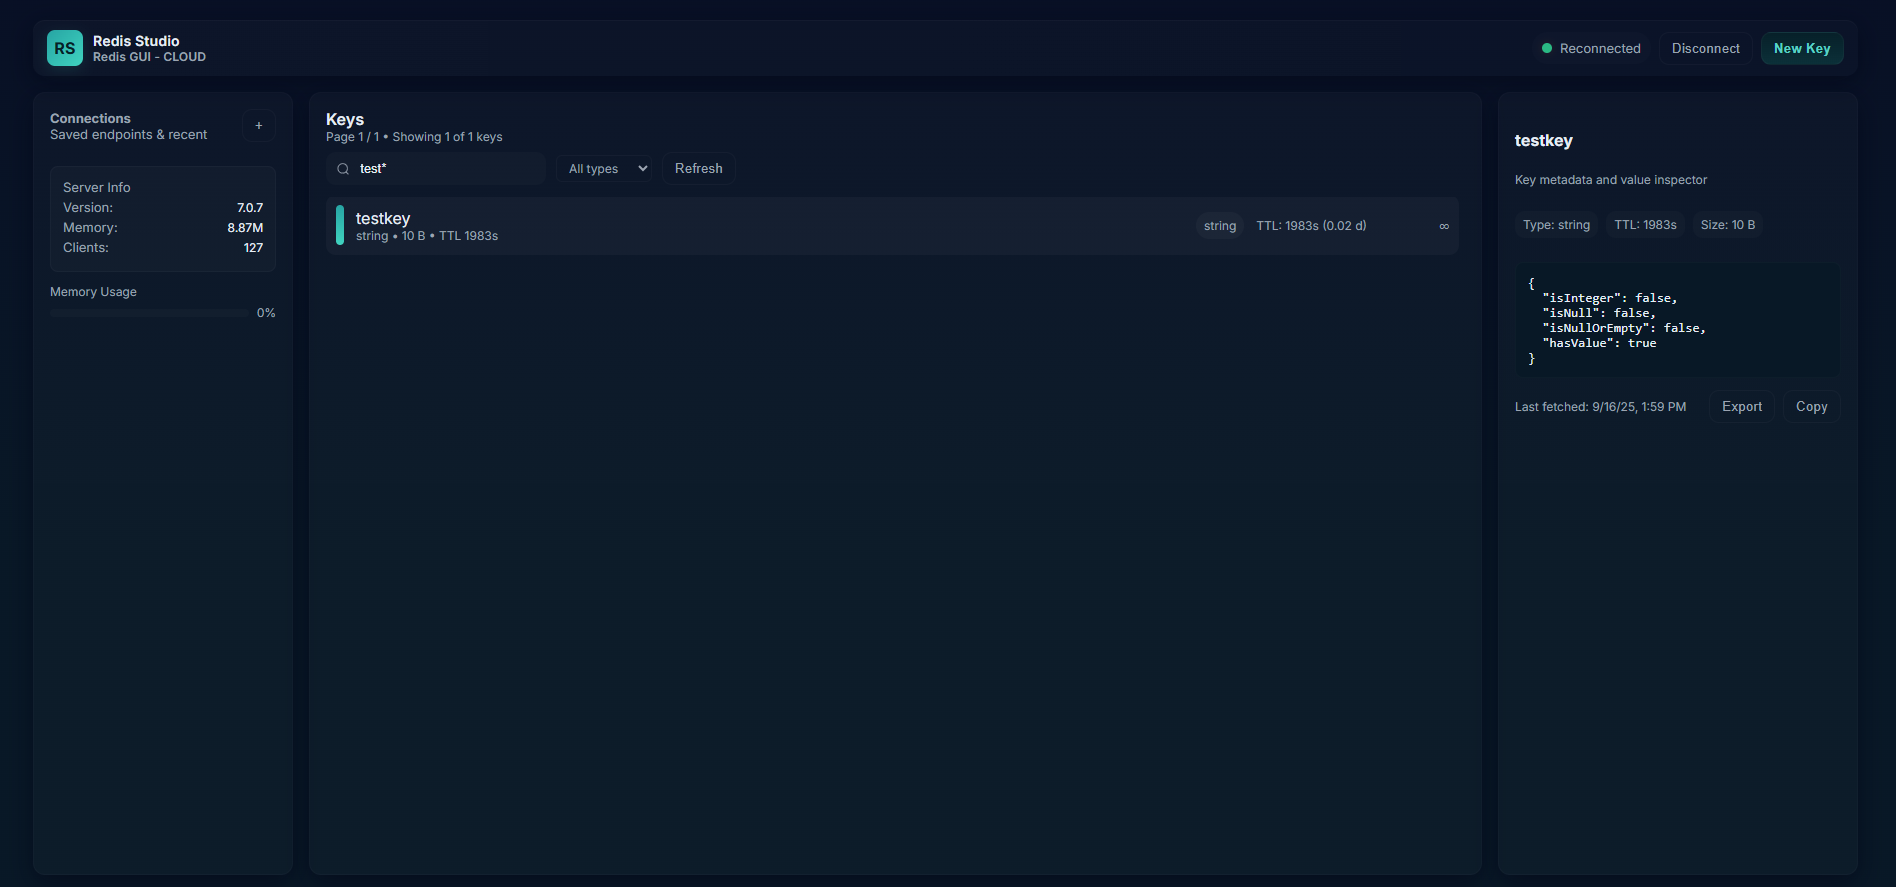
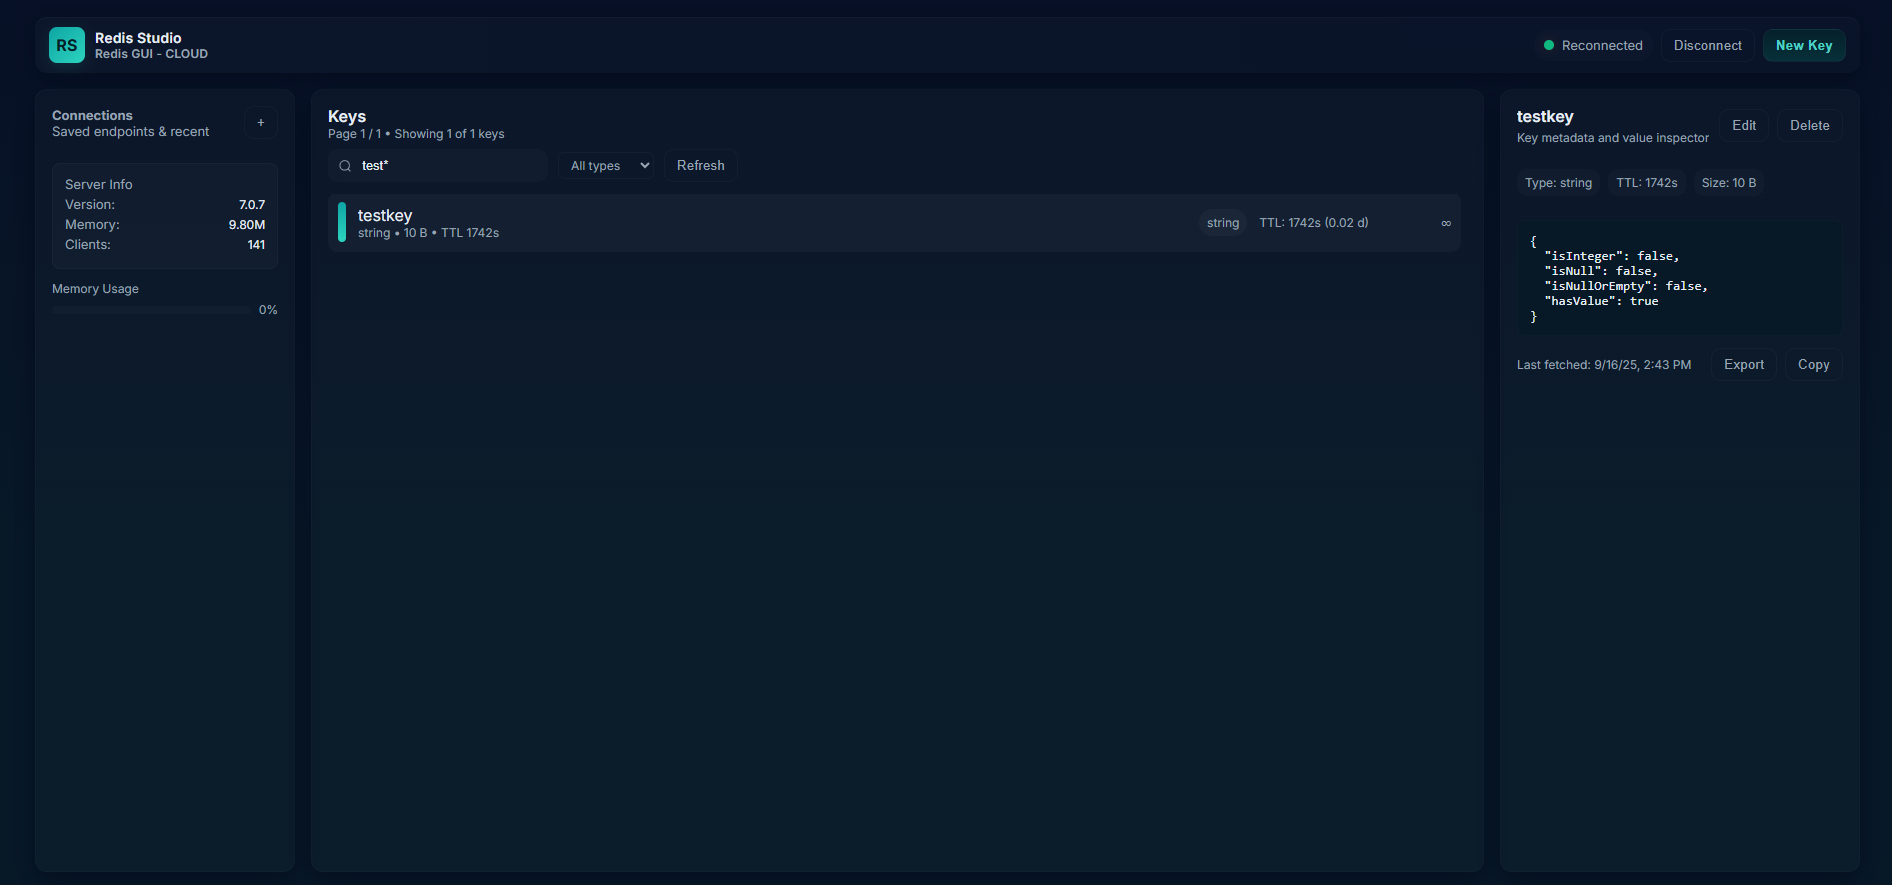
confirmation modal

diff --git a/frontend/src/app/components/key-details/key-details.component.html b/frontend/src/app/components/key-details/key-details.component.html
@@ -1,18 +1,29 @@
 <div class="details-header">
   <div>
-    <h4>{{ selectedKey?.key || ui.details.selectPrompt }}</h4>
-    <div class="small-muted">{{ "Key metadata and value inspector" }}</div>
+    <h4 [title]="selectedKey?.key || ui.details.selectPrompt">
+      {{ selectedKey?.key || ui.details.selectPrompt }}
+    </h4>
+    <div class="small-muted" title="Key metadata and value inspector">
+      {{ "Key metadata and value inspector" }}
+    </div>
   </div>
-  <!-- <div class="actions" *ngIf="selectedKey">
-    <button class="btn ghost" (click)="edit.emit()" [disabled]="!canEdit">Edit</button>
+  <div class="actions" *ngIf="selectedKey">
+    <button class="btn ghost" (click)="edit.emit()" [disabled]="!canEdit">
+      Edit
+    </button>
     <button class="btn ghost" (click)="delete.emit()">Delete</button>
-  </div> -->
+  </div>
 </div>
 
 <div class="meta" *ngIf="selectedKey as sk">
   <div class="tag">Type: {{ sk.type }}</div>
   <div class="tag">TTL: {{ sk.ttl ? sk.ttl + "s" : "—" }}</div>
-  <div class="tag" *ngIf="sk.daysToExpire !== null && sk.daysToExpire !== undefined">Days Left: {{ sk.daysToExpire }}</div>
+  <div
+    class="tag"
+    *ngIf="sk.daysToExpire !== null && sk.daysToExpire !== undefined"
+  >
+    Days Left: {{ sk.daysToExpire }}
+  </div>
   <div class="tag">Size: {{ sk.size }}</div>
 </div>
 
@@ -22,7 +33,14 @@
   </div>
   <div *ngIf="selectedKey && !isLoadingValue && selectedKeyValue">
     <pre>{{ formatValue(selectedKeyValue.value) }}</pre>
-    <div *ngIf="selectedKeyValue.rawString && selectedKeyValue.rawString !== selectedKeyValue.value" class="muted" style="margin-top:6px;font-size:11px;word-break:break-all;">
+    <div
+      *ngIf="
+        selectedKeyValue.rawString &&
+        selectedKeyValue.rawString !== selectedKeyValue.value
+      "
+      class="muted"
+      style="margin-top: 6px; font-size: 11px; word-break: break-all"
+    >
       Raw: {{ selectedKeyValue.rawString }}
     </div>
   </div>

diff --git a/frontend/src/app/components/main-app/main-app.component.ts b/frontend/src/app/components/main-app/main-app.component.ts
@@ -53,6 +53,10 @@ export class MainAppComponent implements OnInit {
 
   memoryUsagePercent = 0;
 
+  // Confirmation modal state
+  confirmDeleteVisible = false;
+  pendingDeleteKey: string | null = null;
+
   constructor(
     public themeService: ThemeService,
     private redisService: RedisService
@@ -222,7 +226,8 @@ export class MainAppComponent implements OnInit {
   }
 
   canEditKey(): boolean {
-    return !!this.selectedKey && ["string"].includes(this.selectedKey.type);
+    // return !!this.selectedKey && ["string"].includes(this.selectedKey.type);
+    return true;
   }
   closeKeyEditor(): void {
     this.keyEditorVisible = false;
@@ -255,15 +260,29 @@ export class MainAppComponent implements OnInit {
 
   deleteSelectedKey(): void {
     if (!this.selectedKey) return;
-    const keyToDelete = this.selectedKey.key;
-    if (!confirm(`Delete key ${keyToDelete}?`)) return;
+    this.pendingDeleteKey = this.selectedKey.key;
+    this.confirmDeleteVisible = true;
+  }
+
+  onConfirmDelete(): void {
+    if (!this.pendingDeleteKey) return;
+    const keyToDelete = this.pendingDeleteKey;
     this.redisService.deleteKey(keyToDelete).subscribe((success) => {
       if (success) {
-        this.selectedKey = null;
-        this.selectedKeyValue = null;
+        if (this.selectedKey?.key === keyToDelete) {
+          this.selectedKey = null;
+          this.selectedKeyValue = null;
+        }
         this.refreshKeys();
       }
+      this.confirmDeleteVisible = false;
+      this.pendingDeleteKey = null;
     });
+  }
+
+  onCancelDelete(): void {
+    this.confirmDeleteVisible = false;
+    this.pendingDeleteKey = null;
   }
 
   disconnect(): void {

diff --git a/frontend/src/app/components/confirmation-modal/confirmation-modal.component.html b/frontend/src/app/components/confirmation-modal/confirmation-modal.component.html
@@ -1,0 +1,38 @@
+<div
+  class="modal-screen"
+  *ngIf="visible"
+  role="dialog"
+  aria-modal="true"
+  [attr.aria-label]="title"
+  (click)="onCancel()"
+>
+  <div
+    class="modal-card fade-up"
+    role="document"
+    (click)="$event.stopPropagation()"
+  >
+    <button
+      type="button"
+      class="modal-close-btn"
+      aria-label="Close"
+      (click)="onCancel()"
+    >
+      ×
+    </button>
+    <h2 style="margin: 0 0 10px 0; font-size: 20px">{{ title }}</h2>
+    <p class="small-muted" style="margin: 0 0 18px 0">{{ message }}</p>
+    <div style="display: flex; gap: 10px; justify-content: flex-end">
+      <button type="button" class="btn ghost" (click)="onCancel()">
+        {{ cancelText }}
+      </button>
+      <button
+        type="button"
+        class="btn"
+        [ngStyle]="destructive ? { color: '#f87171' } : null"
+        (click)="onConfirm()"
+      >
+        {{ confirmText }}
+      </button>
+    </div>
+  </div>
+</div>

diff --git a/frontend/src/app/app.module.ts b/frontend/src/app/app.module.ts
@@ -28,6 +28,7 @@ import { KeyDetailsComponent } from "./components/key-details/key-details.compon
 import { PaginationControlsComponent } from "./components/pagination-controls/pagination-controls.component";
 import { UiSpinnerComponent } from "./components/ui-spinner/ui-spinner.component";
 import { KeyEditorModalComponent } from "./components/key-editor-modal/key-editor-modal.component";
+import { ConfirmationModalComponent } from "./components/confirmation-modal/confirmation-modal.component";
 
 // Services
 import { RedisService } from "./services/redis.service";
@@ -45,6 +46,7 @@ import { ThemeService } from "./services/theme.service";
     PaginationControlsComponent,
     UiSpinnerComponent,
     KeyEditorModalComponent,
+    ConfirmationModalComponent,
   ],
   imports: [
     BrowserModule,

diff --git a/frontend/src/app/components/confirmation-modal/confirmation-modal.component.ts b/frontend/src/app/components/confirmation-modal/confirmation-modal.component.ts
@@ -1,0 +1,24 @@
+import { Component, EventEmitter, Input, Output } from "@angular/core";
+
+@Component({
+  selector: "app-confirmation-modal",
+  templateUrl: "./confirmation-modal.component.html",
+  styleUrls: ["./confirmation-modal.component.css"],
+})
+export class ConfirmationModalComponent {
+  @Input() visible = false;
+  @Input() title = "Confirm Action";
+  @Input() message = "Are you sure?";
+  @Input() confirmText = "Confirm";
+  @Input() cancelText = "Cancel";
+  @Input() destructive = false;
+  @Output() confirmed = new EventEmitter<void>();
+  @Output() cancelled = new EventEmitter<void>();
+
+  onConfirm(): void {
+    this.confirmed.emit();
+  }
+  onCancel(): void {
+    this.cancelled.emit();
+  }
+}

diff --git a/frontend/src/app/components/main-app/main-app.component.html b/frontend/src/app/components/main-app/main-app.component.html
@@ -123,3 +123,18 @@
   (closed)="closeKeyEditor()"
   (save)="onKeyEditorSave($any($event))"
 ></app-key-editor-modal>
+
+<app-confirmation-modal
+  [visible]="confirmDeleteVisible"
+  [title]="'Delete Key'"
+  [message]="
+    pendingDeleteKey
+      ? 'Are you sure you want to delete \'' + pendingDeleteKey + '\'?'
+      : ''
+  "
+  [confirmText]="'Delete'"
+  [cancelText]="'Cancel'"
+  [destructive]="true"
+  (confirmed)="onConfirmDelete()"
+  (cancelled)="onCancelDelete()"
+></app-confirmation-modal>

diff --git a/frontend/src/app/components/key-details/key-details.component.css b/frontend/src/app/components/key-details/key-details.component.css
@@ -69,3 +69,24 @@
   align-items: center;
   margin-bottom: 4px;
 }
+.details-header > div:first-child {
+  min-width: 0;
+  max-width: 100%;
+}
+.details-header h4 {
+  margin: 0 0 4px 0;
+  font-size: 16px;
+  font-weight: 600;
+  max-width: 100%;
+  width: 189px;
+  overflow: hidden;
+  text-overflow: ellipsis;
+  white-space: nowrap;
+}
+.details-header .small-muted {
+  max-width: 100%;
+  overflow: hidden;
+  text-overflow: ellipsis;
+  white-space: nowrap;
+  display: block;
+}

diff --git a/frontend/src/app/components/confirmation-modal/confirmation-modal.component.css b/frontend/src/app/components/confirmation-modal/confirmation-modal.component.css
@@ -1,0 +1,4 @@
+/* Uses shared modal styles; only specific adjustments here */
+:host {
+  display: contents;
+}
